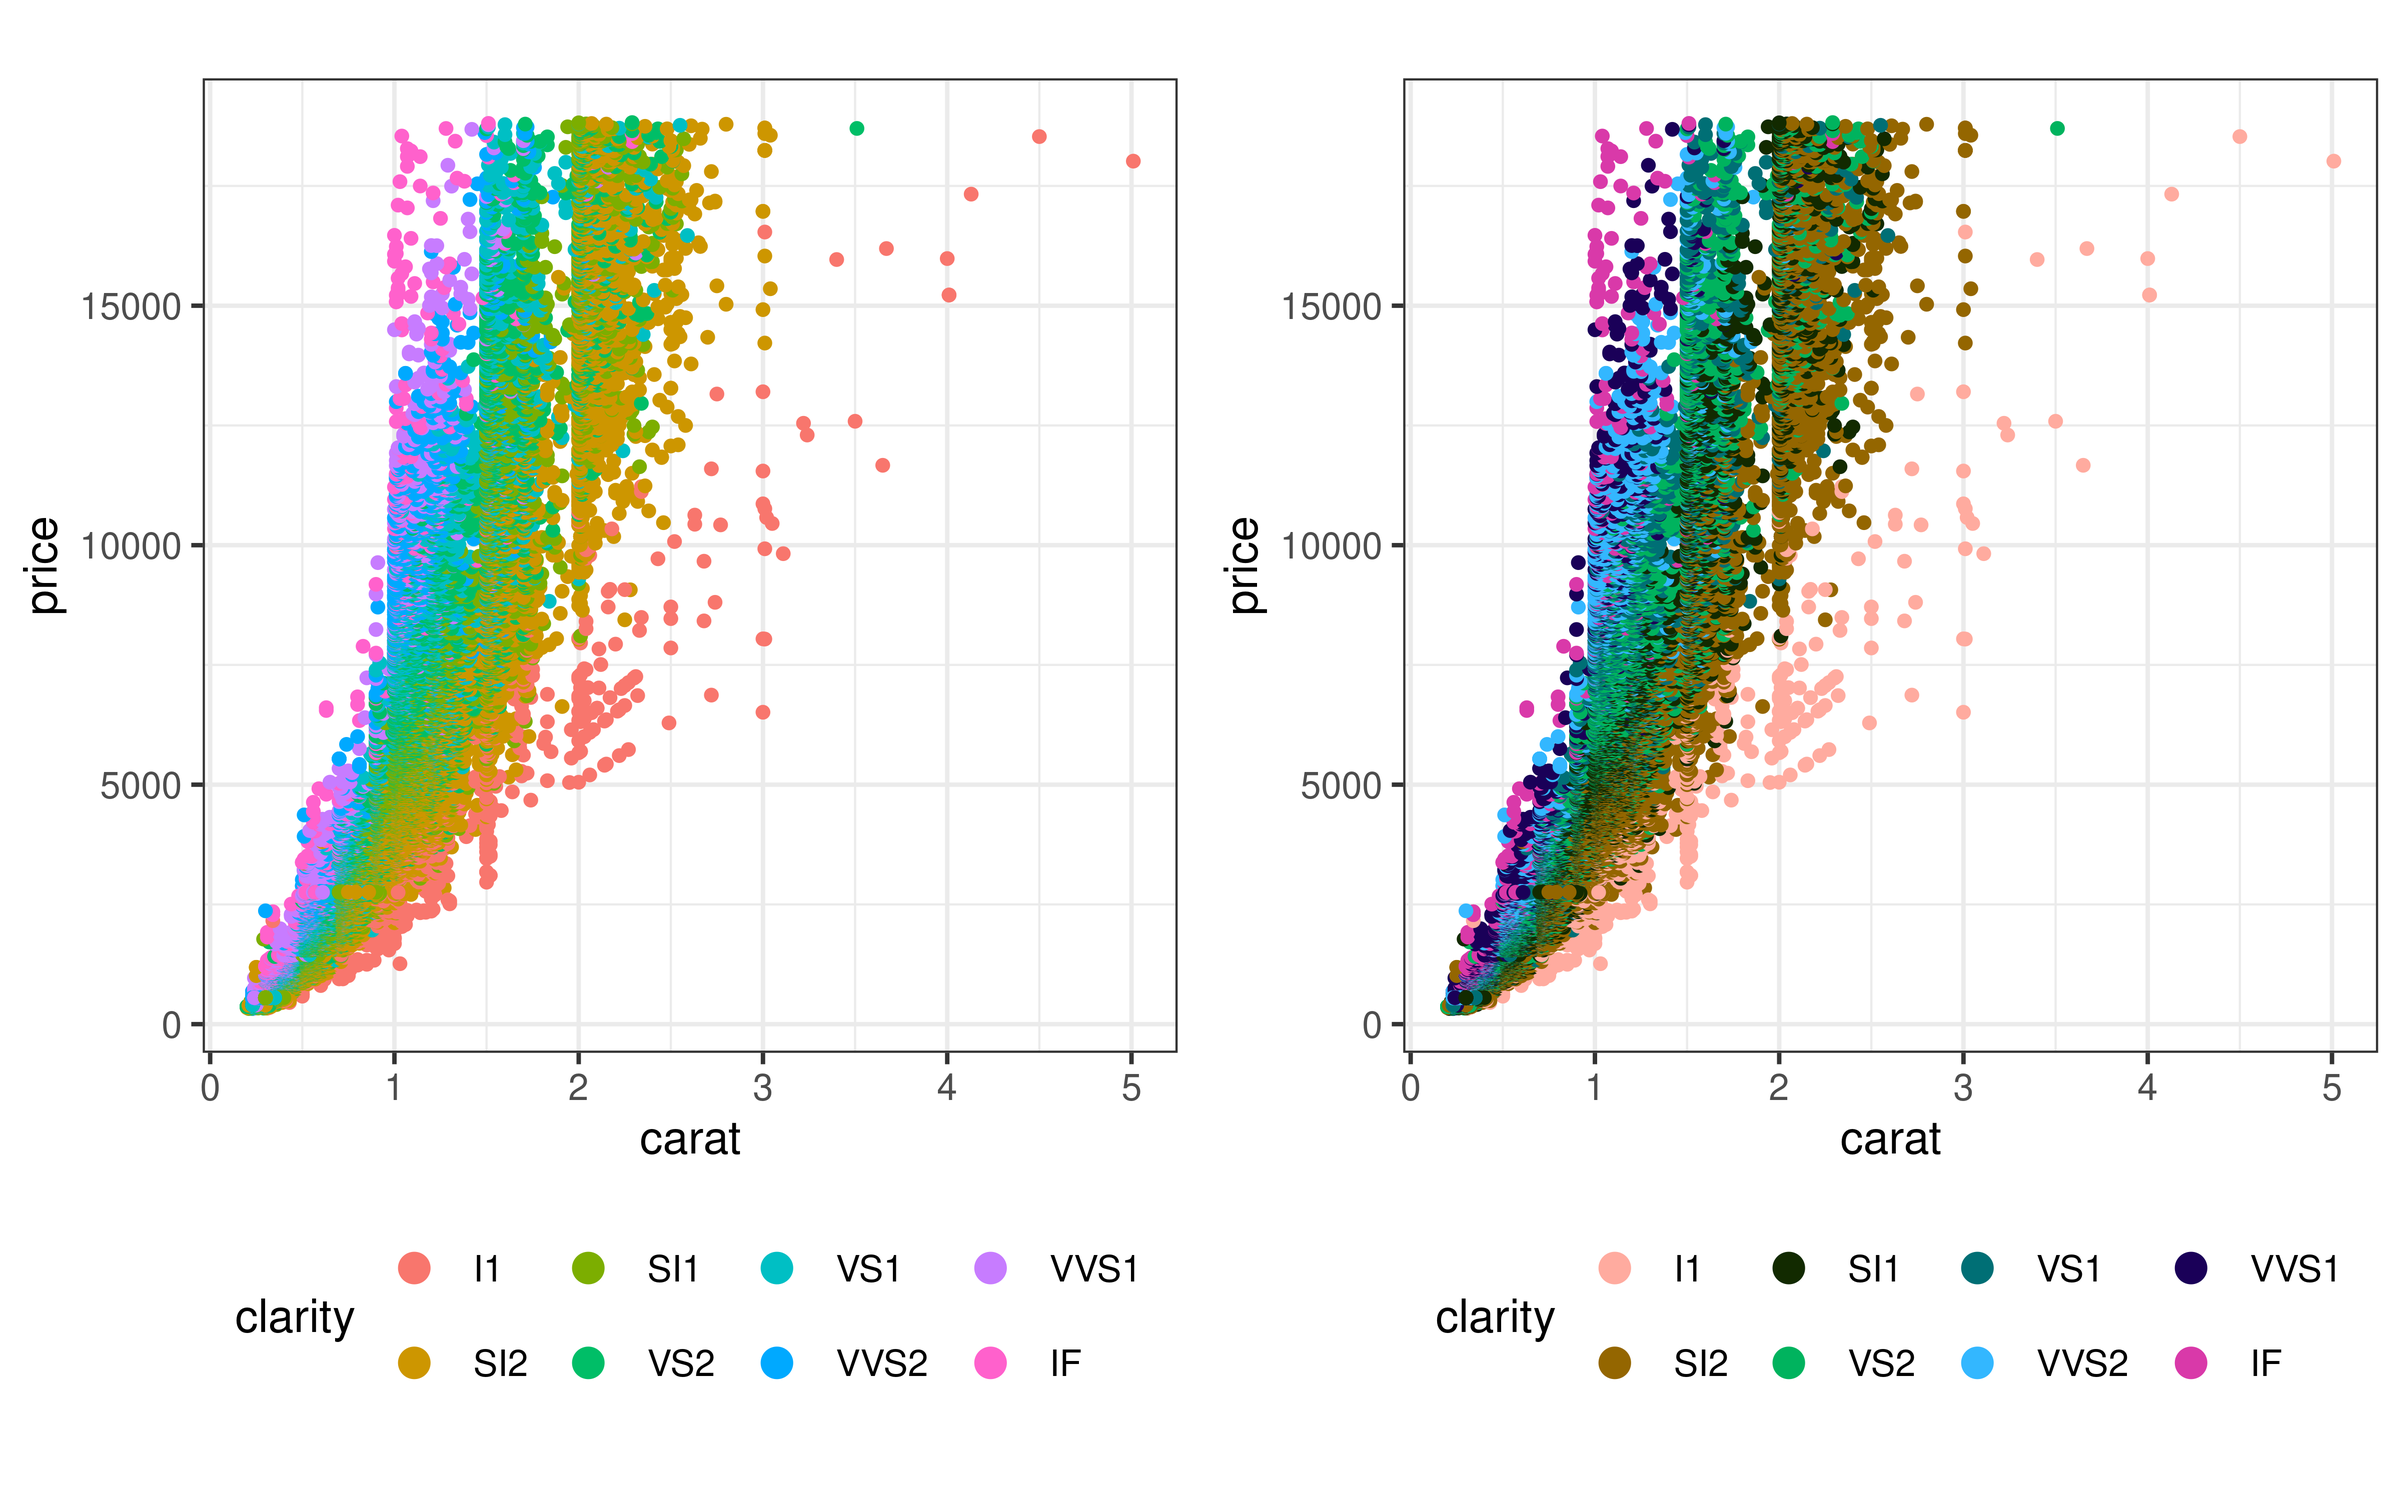
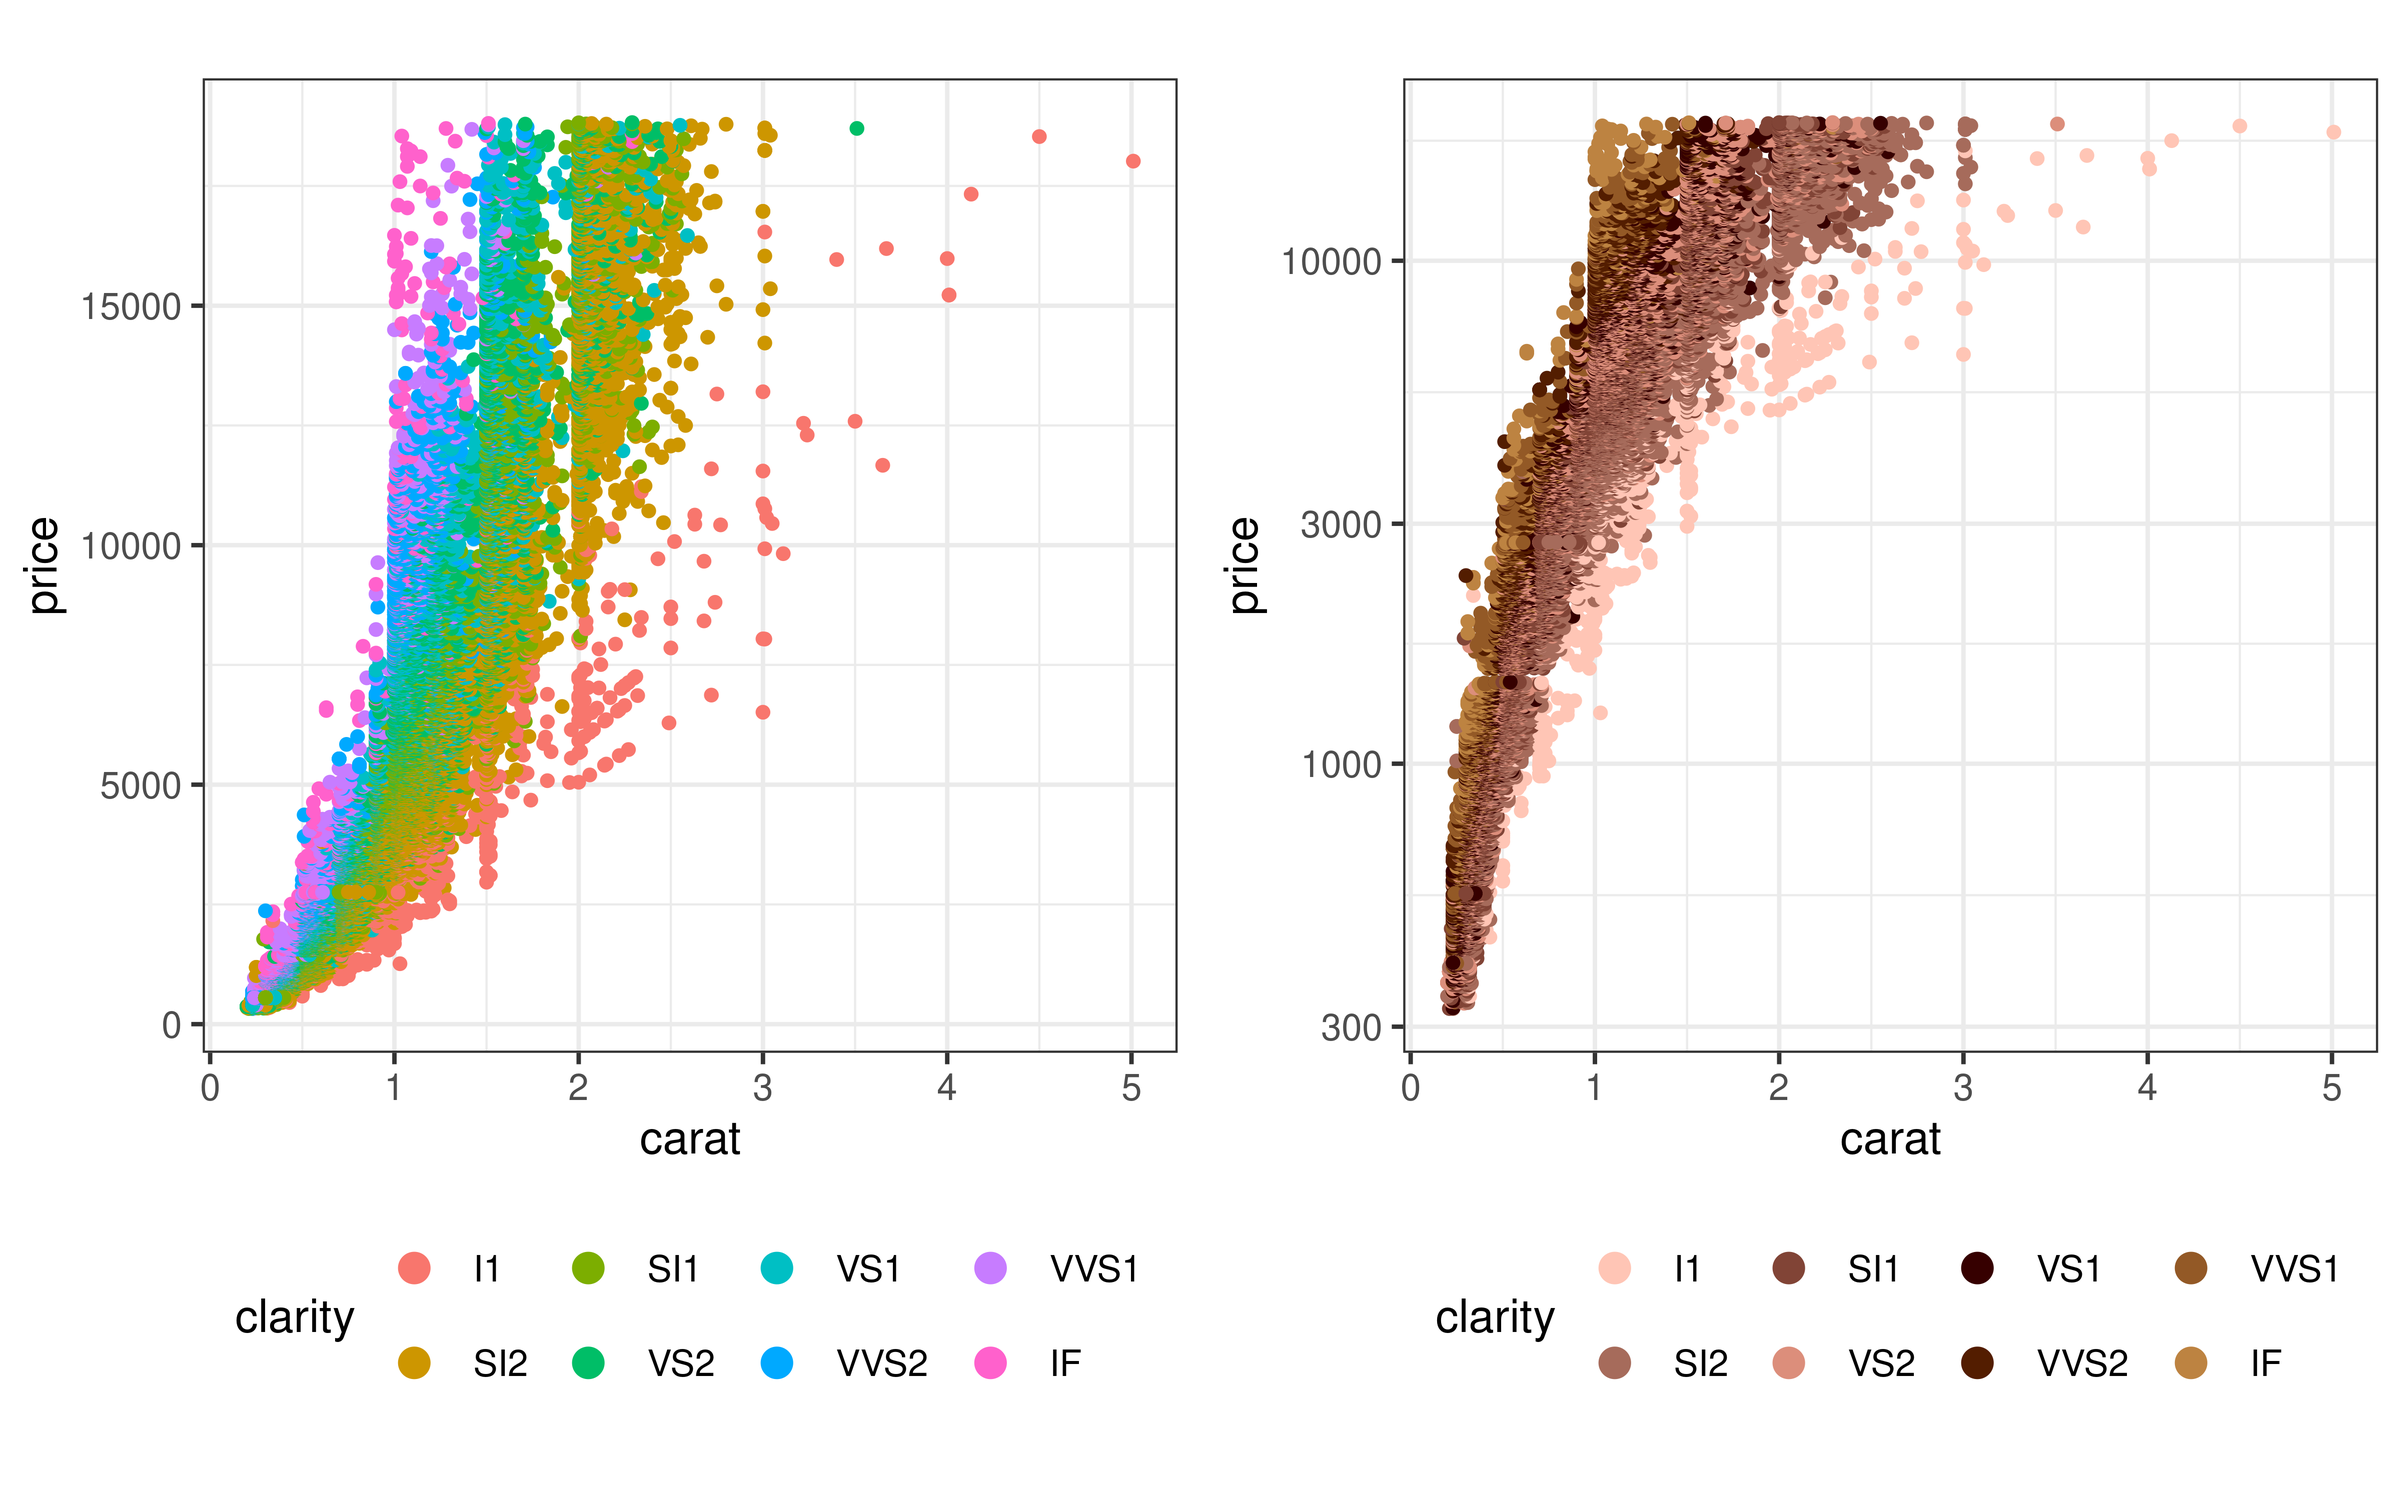
cleanup scale_*_spruce

diff --git a/README.md b/README.md
@@ -132,10 +132,27 @@ plt1 <- plt +
 
 # Adjust colors from existing scale
 plt2 <- plt +
-  scale_color_hue() +
-  scale_color_spruce(difference = 30)
+  scale_y_log10() +
+  # scale_color_hue() +
+  scale_color_spruce(
+    values = clrs,
+    difference = 0
+  ) +
+  scale_color_spruce(
+    values = clrs[1:3],
+    difference = 20,
+    property = "lightness"
+  ) +
+  # scale_color_spruce(difference = 20) +
+  scale_y_log10()
+#> Scale for colour is already present.
+#> Adding another scale for colour, which will replace the existing scale.
+#> Scale for y is already present.
+#> Adding another scale for y, which will replace the existing scale.
 
 plot_grid(plt1, plt2, nrow = 1)
+#> ℹ Insufficient number of colors provided, 5 additional colors added, set `resize_palette` to `FALSE` to disable this behavior.
+#> ℹ The minimum color difference for the adjusted palette is 13.7, increase `maxit` to improve optimization.
 ```
 
 <img src="man/figures/README-unnamed-chunk-6-1.png" width="100%" />
@@ -159,8 +176,7 @@ new_clrs <- clrs |>
     property   = c("lightness", "saturation"),
     filter     = "deutan"
   )
-#> Warning: The minimum color difference for the adjusted palette is 14.3, increase `maxit`
-#> to improve optimization.
+#> ℹ The minimum color difference for the adjusted palette is 14.3, increase `maxit` to improve optimization.
 
 # Plot adjusted colors without filter
 plt1 <- clrs |>
